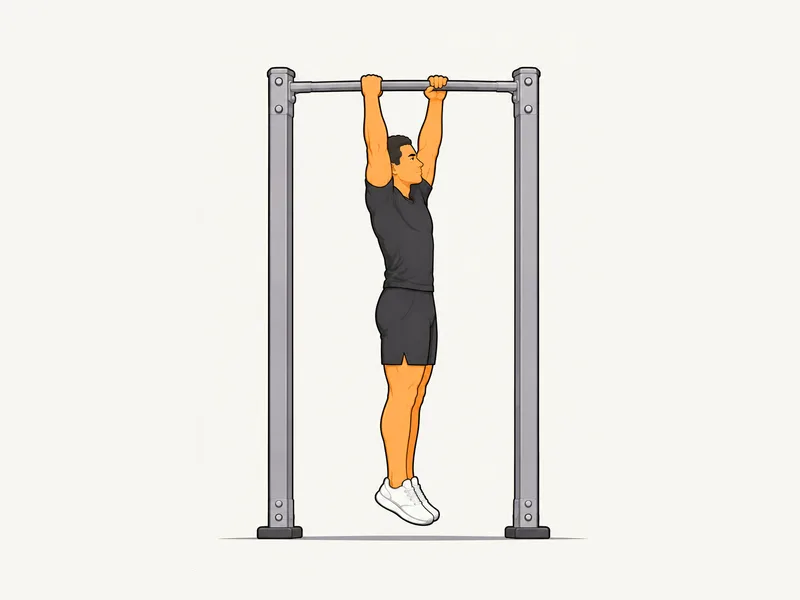
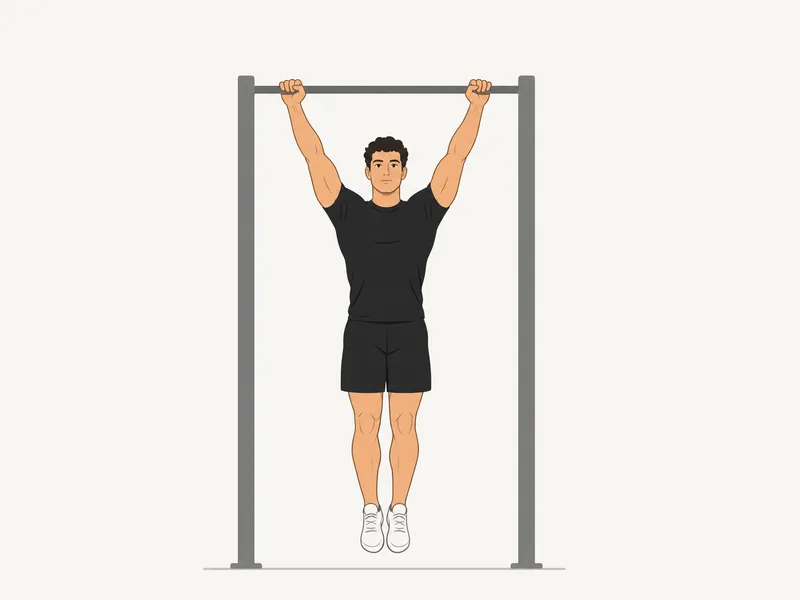
fix: tractions et tirage vertical en prise pronation

Changed region(s): [[0.2812, 0.09, 0.7188, 0.96]]

diff --git a/lib/demos.ts b/lib/demos.ts
@@ -40,6 +40,7 @@ export const DEMOS: Record<string, [number, number]> = {
   "developpe-incline": [800, 600],
   "developpe-machine": [800, 600],
   "developpe-militaire": [800, 600],
+  "douleur": [800, 600],
   "ecartes": [800, 600],
   "elevations-laterales": [800, 600],
   "extension-triceps-poulie": [800, 600],

diff --git a/public/sw.js b/public/sw.js
@@ -1,4 +1,4 @@
-const CACHE = 'warmup-v10';
+const CACHE = 'warmup-v11';
 
 // Pages-outils : statiques, elles calculent tout dans le navigateur à partir
 // de l'URL. En cache, elles fonctionnent sans réseau.

diff --git a/docs/decisions-a-prendre.md b/docs/decisions-a-prendre.md
@@ -8,8 +8,6 @@
 - [ ] **Routines par groupe musculaire** (Seb, à venir) : tu proposeras tes routines par groupe musculaire,
       avec les exercices à ajouter. Je les intégrerai (banque, variantes par matériel, démonstrations IA
       pour les nouveaux exercices).
-- [ ] **Démonstrations IA à refaire** : tractions et tirage vertical, en prise pronation (retour de Seb,
-      nov. 2026) ; les autres images sont validées.
 
 ## Traitées
 
